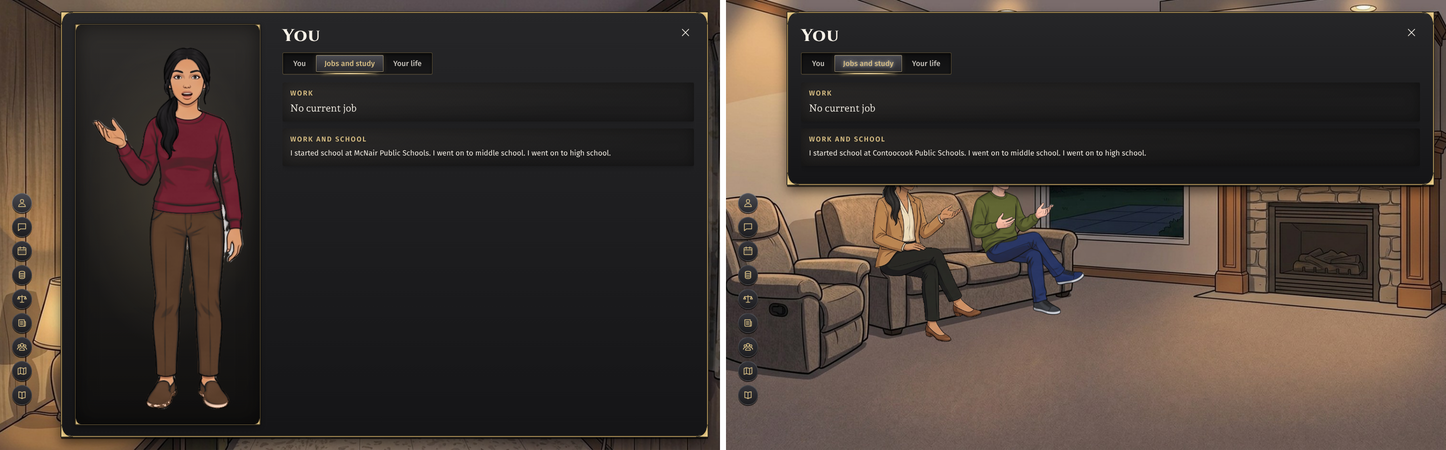
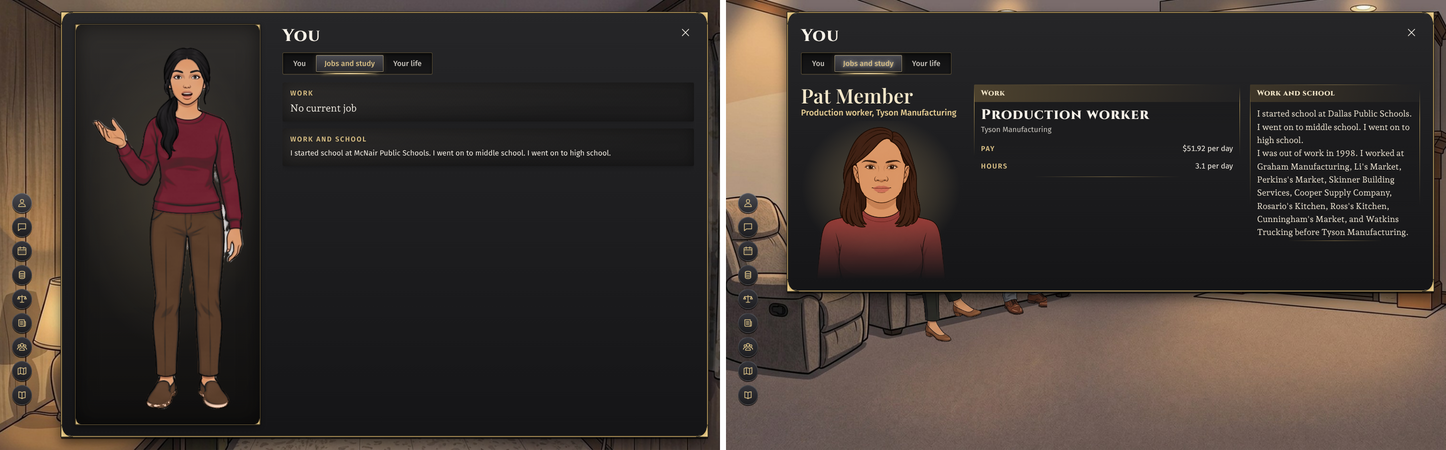
Jobs and study and Your life show the same bust as You, on the strip screen
Claude-Session: https://claude.ai/code/session_01S4WSHqNg6KBGeqzmuG854e

Changed region(s): [[0.529, 0.1867, 0.9959, 0.7156]]

diff --git a/docs/play-first/shots/busts-on-menus/README.md b/docs/play-first/shots/busts-on-menus/README.md
@@ -5,9 +5,10 @@ Each picture is the screen before (left) and after (right), at 1440 by 900, show
 - Before: McNair, Virginia, seed `9984b690-7af4-4007-93cb-a377e36b65ba`.
 - After: Contoocook, New Hampshire, seed `568472d7-ca84-46ca-beec-b283fbcb8121`.
 
-| Picture                   | What to look at                                                                            |
-| ------------------------- | ------------------------------------------------------------------------------------------ |
-| `you-before-after.png`    | The face cut from a full figure, mouth open, is now a bust with a calm face.               |
-| `jobs-before-after.png`   | The tall full-body figure beside Jobs and study is gone.                                   |
-| `people-before-after.png` | A father was drawn with a teenager's face. He is now his own bust, dressed for his office. |
-| `gov-before-after.png`    | The leader and the members' round faces are busts.                                         |
+| Picture                      | What to look at                                                                                                                                                        |
+| ---------------------------- | ---------------------------------------------------------------------------------------------------------------------------------------------------------------------- |
+| `you-before-after.png`       | The face cut from a full figure, mouth open, is now a bust with a calm face.                                                                                           |
+| `jobs-before-after.png`      | The tall full-body figure beside Jobs and study is gone; the tab shows the same bust as You. (After: Dallas, Pennsylvania, a grown resident the character check made.) |
+| `your-life-before-after.png` | The same for Your life.                                                                                                                                                |
+| `people-before-after.png`    | A father was drawn with a teenager's face. He is now his own bust, dressed for his office.                                                                             |
+| `gov-before-after.png`       | The leader and the members' round faces are busts.                                                                                                                     |
